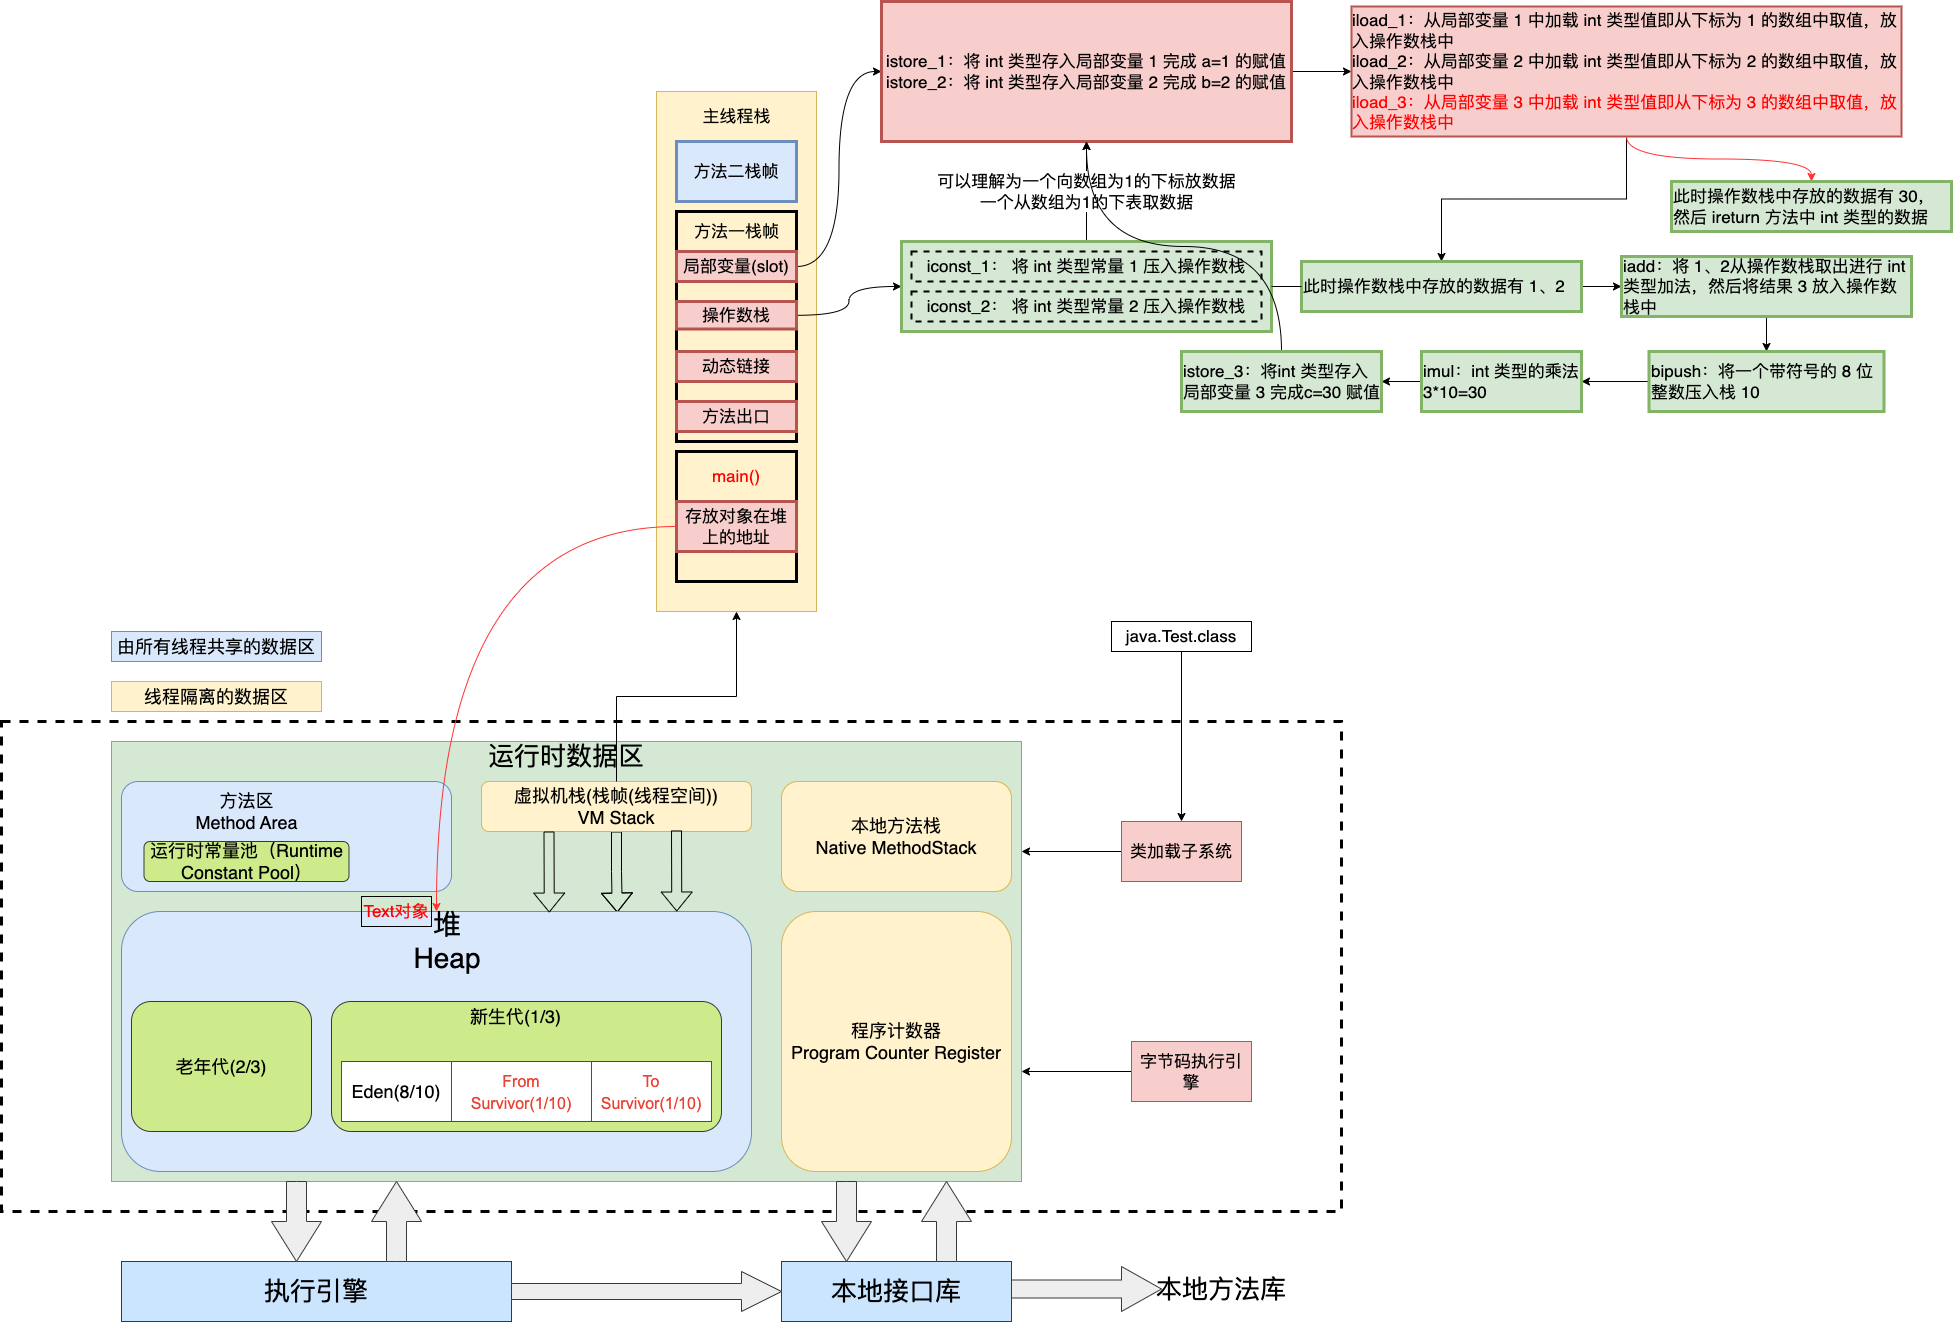
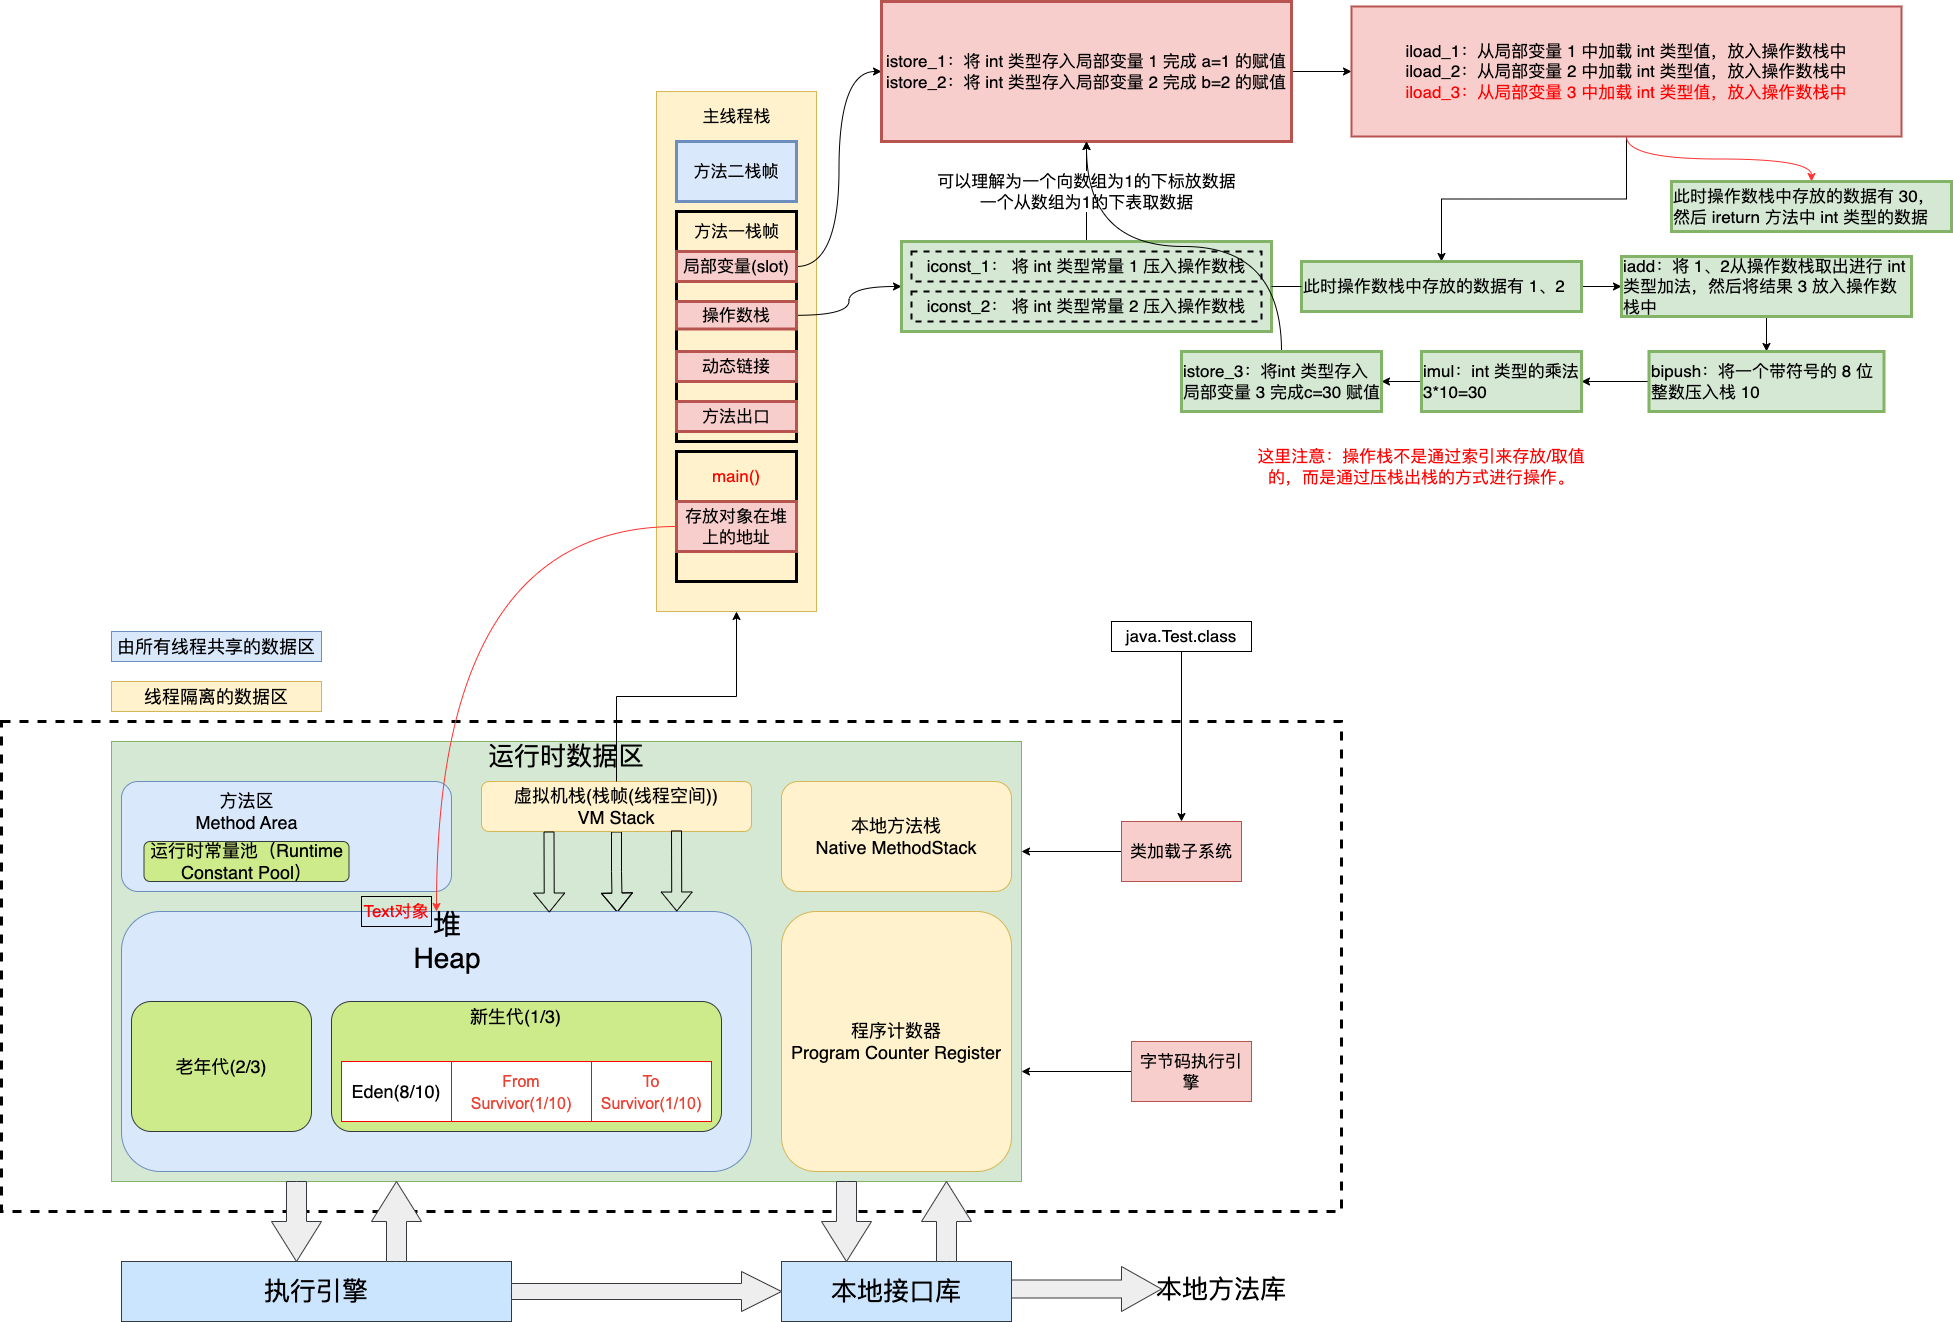
JVM 内存结构

Changed region(s): [[0.6871, 0.0, 0.9683, 0.093], [0.6247, 0.3411, 0.8121, 0.3722]]

diff --git a/jvm/src/main/resources/note/1.JVM虚拟机.md b/jvm/src/main/resources/note/1.JVM虚拟机.md
@@ -84,5 +84,23 @@ public class com.anzhi.jvmmemorystructure.TestExample {
 具体过程参考 JVM 内存结构的图
 ![JVM内存结构](../photo/4.JVM内存结构.png)
 根据图上的分析我们可以看到，程序开始运行，JVM 会分配一块儿"栈"区存放主线程的相关数据。上述代代码中：
-1. 先将常量 1 放入操作数栈中，然后给局部变量的 a 赋值，
+1. 先将常量 1 放入操作数栈中，然后给局部变量的 a 赋值; 变量 b 的赋值过程也是如此；
+2. 赋值完成之后，从局部变量中取出对应的值进行相加，然后压入栈中；
+3. 再向操作栈中放入带符号的整型 10，进行相乘，放入栈中；
+4. 将操作数栈中的数据取出，赋值给局部变量，然后再从局部变量取出返回
+
+小结：
+1. 操作数栈：从上面我们可以看出操作数栈主要用于保存计算的中间结果，同时作为临时变量的存储空间； 
+2. 局部变量：局部变量表(Local Variable Table)是一组变量值存储空间，用于存放方法参数和方法内定义的局部变量。局部变量表的容量以变量槽
+(Variable Slot)为最小单位，Java虚拟机规范并没有定义一个槽所应该占用内存空间的大小，但是规定了一个槽应该可以存放一个32位以内的数据类型。
+虚拟机通过索引定位的方法查找相应的局部变量，索引的范围是从0~局部变量表最大容量。如果Slot是32位的，则遇到一个64位数据类型的变量
+(如long或double型)，则会连续使用两个连续的Slot来存储。
+3. 动态链接：在 Java 的 class 文件中，一个方法需要调用另一个方法，需要将这些方法的符号应用转换为其内存地址中的直接引用。而符号引用存在
+于方法区中的运行时常量池。Java虚拟机栈中，每个栈帧都包含一个指向运行时常量池中该栈所属方法的符号引用，持有这个引用的目的是为了支持方法调
+用过程中的动态连接(Dynamic Linking)。这些符号引用一部分会在类加载阶段或者第一次使用时就直接转化为直接引用，这类转化称为静态解析。另一部
+分将在每次运行期间转化为直接引用，这类转化称为动态连接。
+4. 方法返回：一般来说，方法正常退出时，调用者的PC计数值可以作为返回地址，栈帧中可能保存此计数值。而方法异常退出时，返回地址是通过异常处
+理器表确定的，栈帧中一般不会保存此部分信息。
+
+# 堆-JVM 创建对象过程
 
